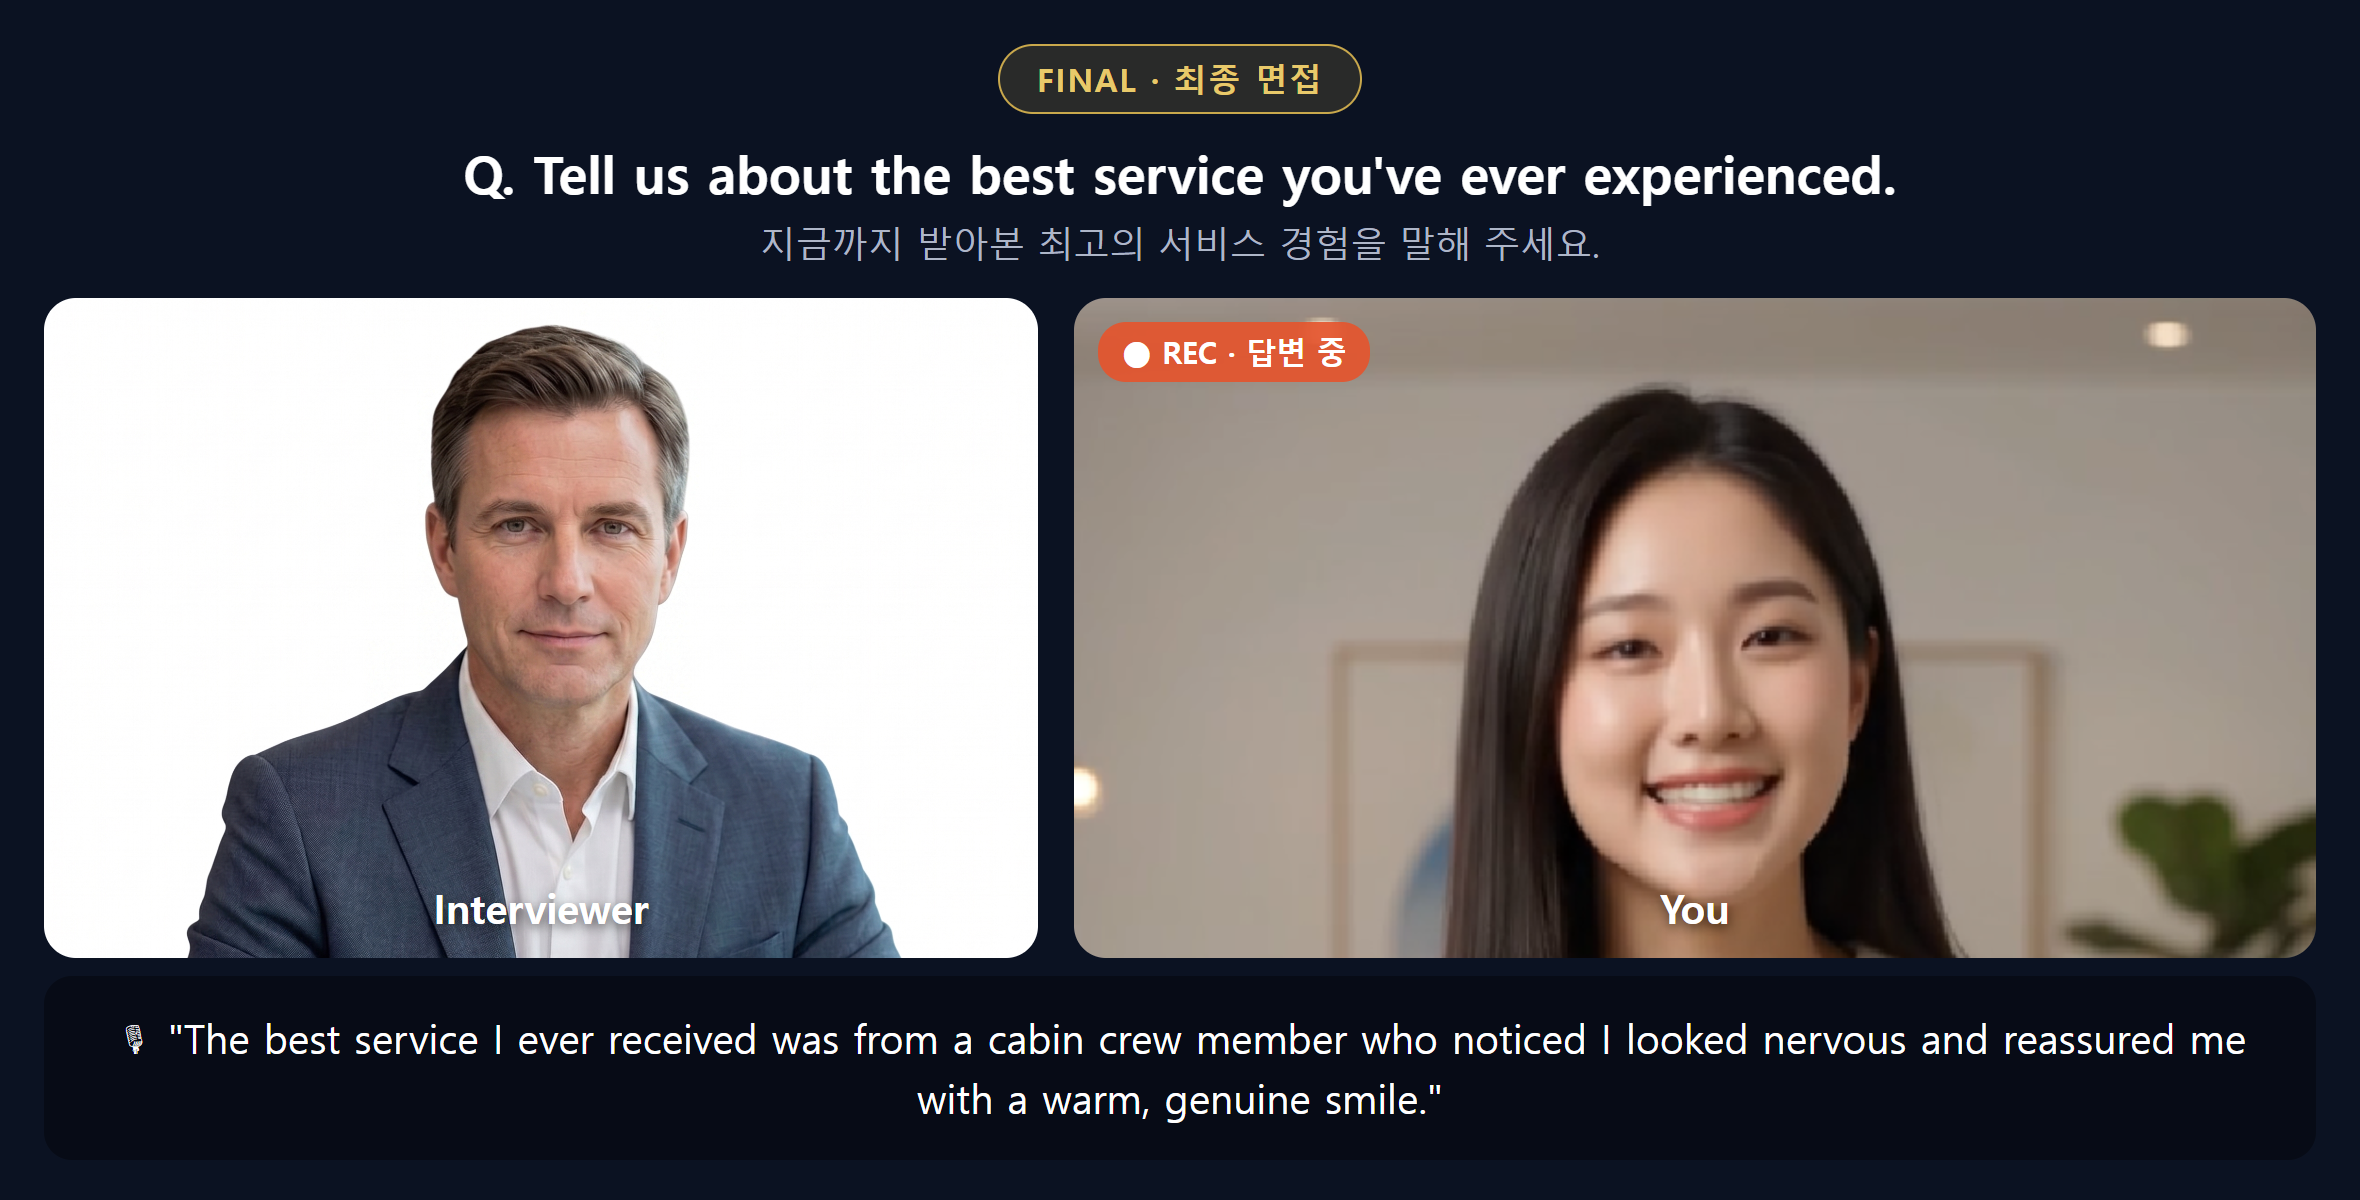
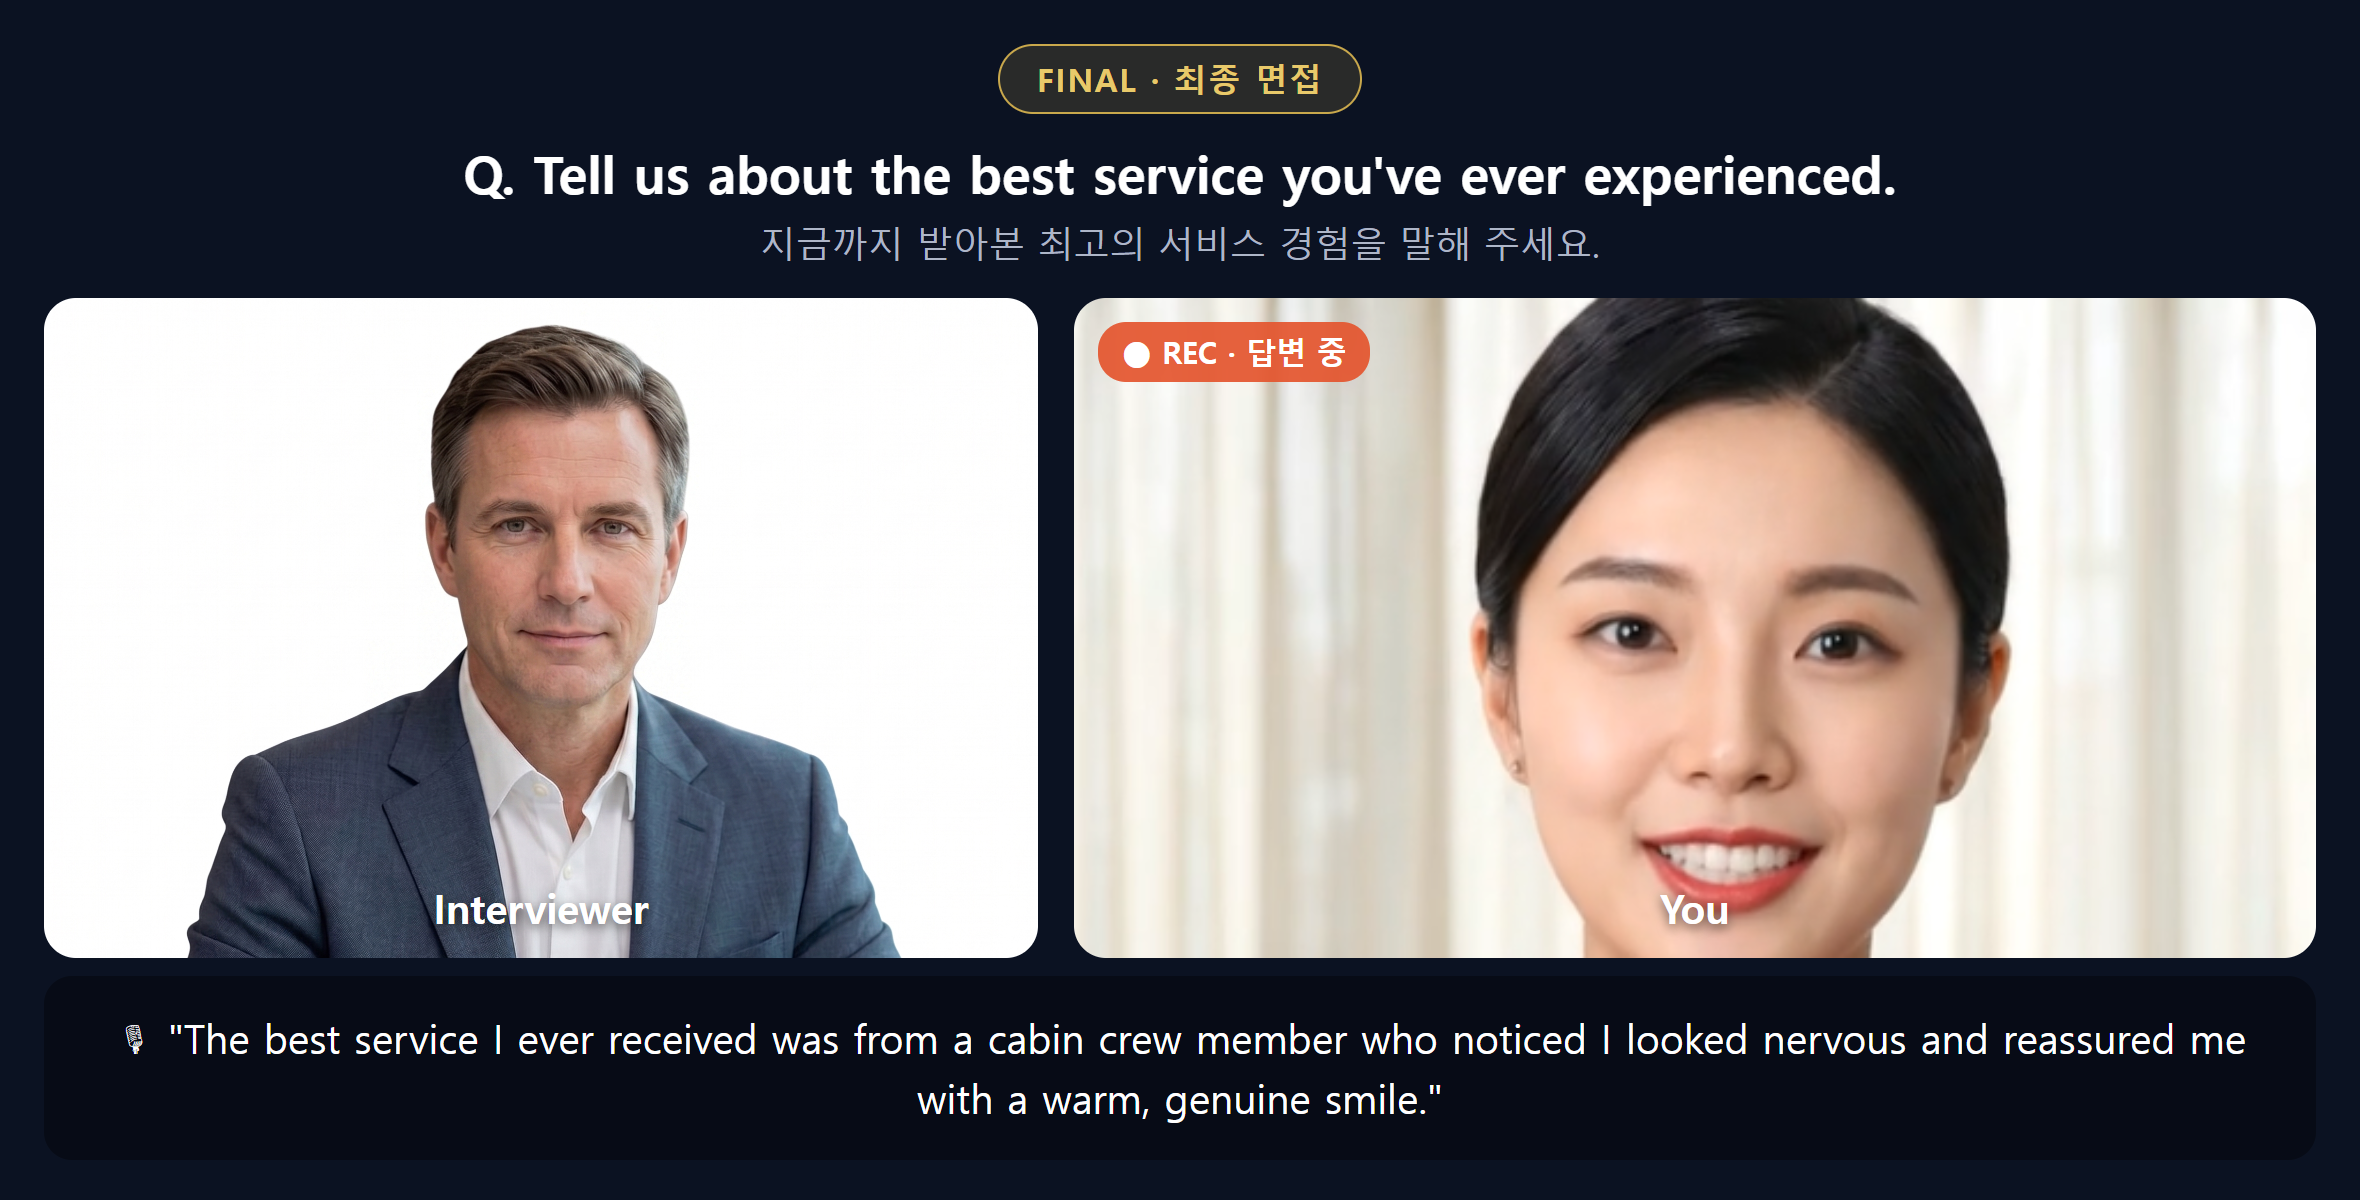
파이널 실전화면: 연습생을 5.png(빨간재킷·머리올림, 다른 이미지)로 교체+얼굴 중앙 크롭, 캐시버스트 v2

Changed region(s): [[0.4331, 0.2467, 0.9898, 0.8017]]

diff --git a/blog-drafts.html b/blog-drafts.html
@@ -533,7 +533,7 @@ hr{border:none;border-top:1px dashed var(--line);margin:30px 0;}
   <p>실전 직전 최종 점검과 종합 실력 분석 리포트, 그리고 1:1 코치 피드백까지. 원더풀크루에서는 그동안의 연습 데이터를 모아 미소·답변·태도를 항목별로 확인하고, 마지막은 코치 피드백으로 실전 준비를 완성합니다.</p>
   <figure><img src="images/Gemini_Generated_Image_9vrkb49vrkb49vrk.png" alt="파이널 종합 분석"></figure>
   <figure><img src="images/shot-final.png" alt="파이널 - 면접관·항공사·영어 엑센트 선택 화면"><figcaption>실제 화면 — 항공사·면접관·엑센트를 골라 실전처럼 마무리해요</figcaption></figure>
-  <figure><img src="images/shot-final-live.png" alt="파이널 실전 - 남성 면접관과 베스트 서비스 질문·실시간 자막"><figcaption>실제 화면 — 실전처럼 질문을 받고, 답변이 자막으로 실시간 기록돼요</figcaption></figure>
+  <figure><img src="images/shot-final-live.png?v=2" alt="파이널 실전 - 남성 면접관과 베스트 서비스 질문·실시간 자막"><figcaption>실제 화면 — 실전처럼 질문을 받고, 답변이 자막으로 실시간 기록돼요</figcaption></figure>
 
   <hr>
   <p>사진 한 장부터 마지막 1:1 면접까지 — 흩어져 있던 준비를 한 곳에서, 매일 조금씩. 원더풀크루에서는 그 전 과정을 실제 화면으로 직접 연습하며 합격까지 함께 걸어드릴게요.</p>

diff --git a/landing.html b/landing.html
@@ -299,7 +299,7 @@ footer b{color:#fff;}
   <div class="card">
     <div class="vis-shot"><img src="images/Gemini_Generated_Image_9vrkb49vrkb49vrk.png" alt="파이널 종합 분석"></div>
     <div class="vis-shot" style="margin-top:10px;"><img src="images/shot-final.png" alt="파이널 - 면접관·항공사·영어 악센트 선택 화면"></div>
-    <div class="vis-shot" style="margin-top:10px;"><img src="images/shot-final-live.png" alt="파이널 실전 - 남성 면접관과 베스트 서비스 질문·실시간 자막"></div>
+    <div class="vis-shot" style="margin-top:10px;"><img src="images/shot-final-live.png?v=2" alt="파이널 실전 - 남성 면접관과 베스트 서비스 질문·실시간 자막"></div>
     <h3>파이널 · 종합 분석</h3>
     <p>실전 직전 최종 점검과 종합 실력 분석 리포트, 그리고 1:1 코치 피드백까지. 그동안의 연습을 합격으로 완성하는 마지막 단계예요.</p><div class="card-note"><b>이 기능에서는</b>1. 실전 직전 종합 점검과 그동안의 연습 데이터를 모은 실력 분석 리포트를 받습니다.<br>2. 미소·답변·태도 등 항목별로 부족한 부분을 데이터로 확인해요.<br>3. 마지막은 1:1 코치 피드백으로 실전 준비를 완성합니다.</div>
   </div>
